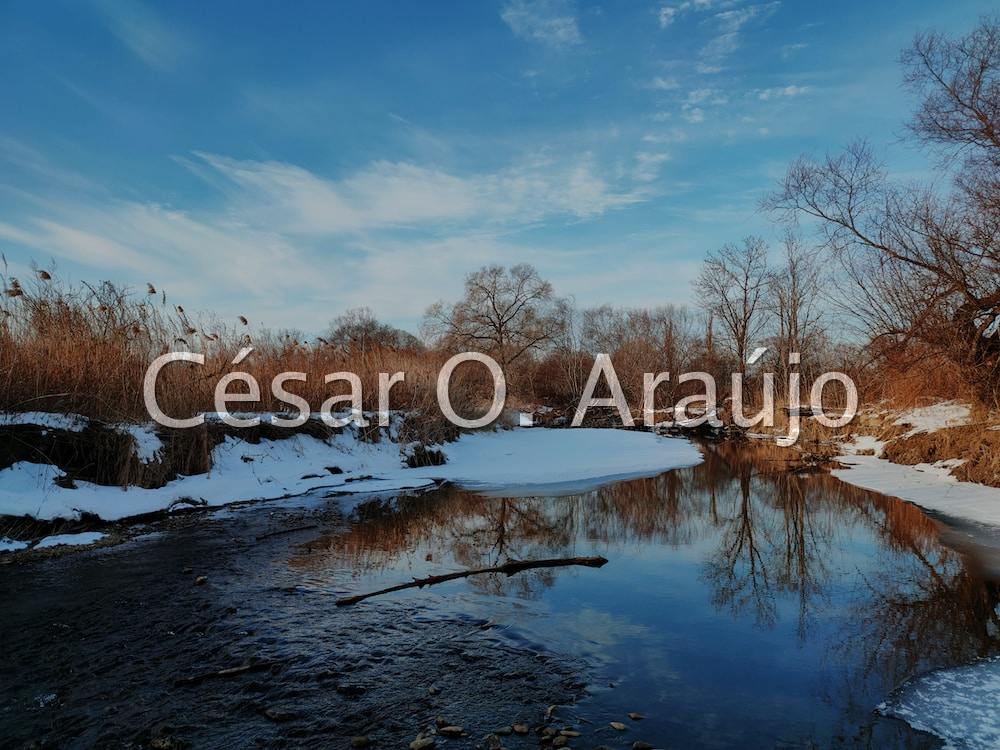
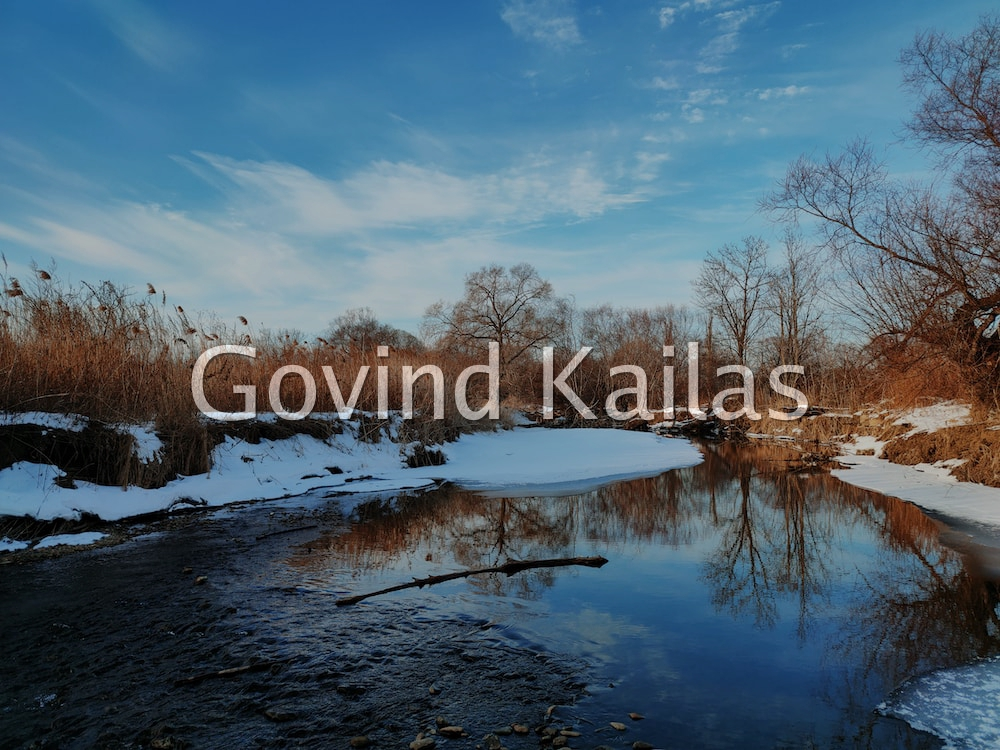
updated the watermark string to test

Changed region(s): [[0.155, 0.46, 0.868, 0.6133], [0.124, 0.4907, 0.155, 0.552]]

diff --git a/main.go b/main.go
@@ -26,7 +26,7 @@ func main() {
 	imgSize := img.Bounds().Size()
 
 	// create a string watermark with a name
-	watermark := createWatermark("César O. Araújo", imgSize.X, imgSize.Y)
+	watermark := createWatermark("Govind Kailas", imgSize.X, imgSize.Y)
 
 	// Add the overlay to the background image with 50% opacity
 	result := imaging.Overlay(img, watermark, image.Point{0, 0}, 0.5)
